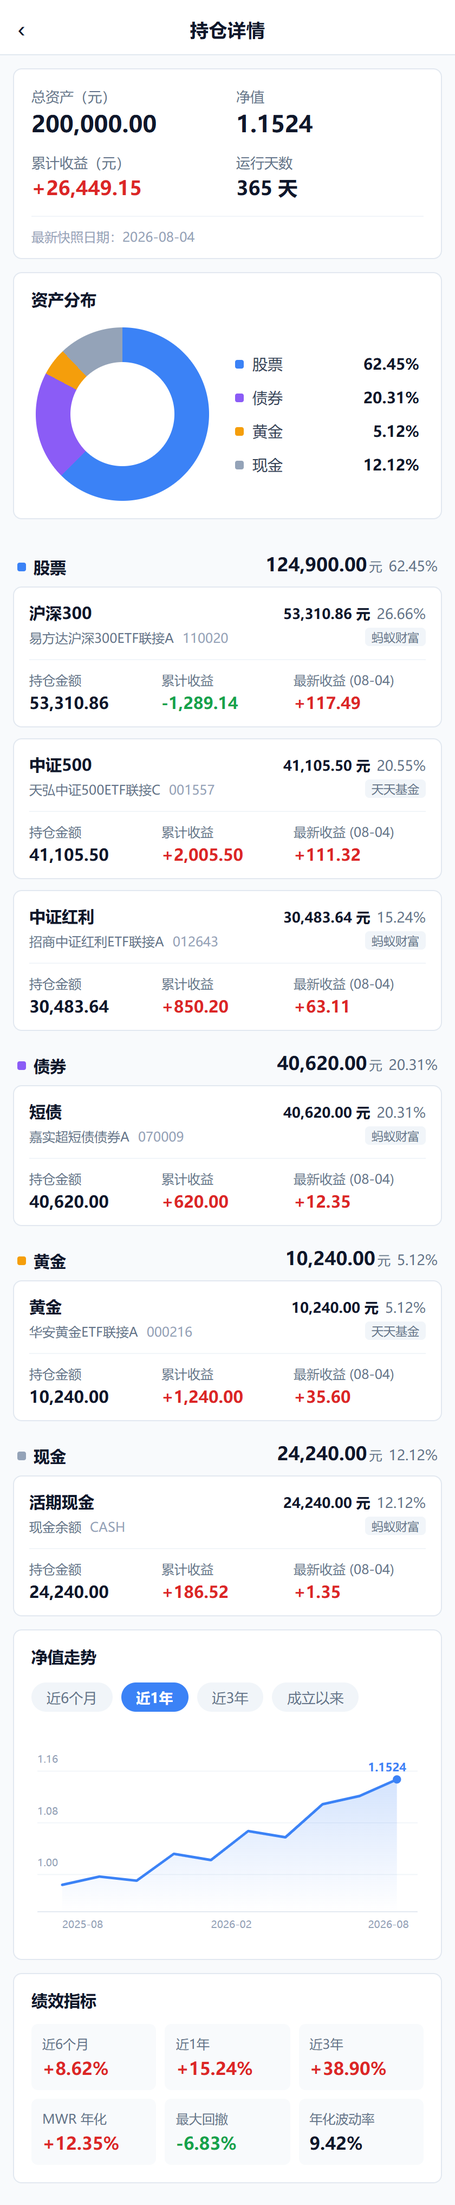
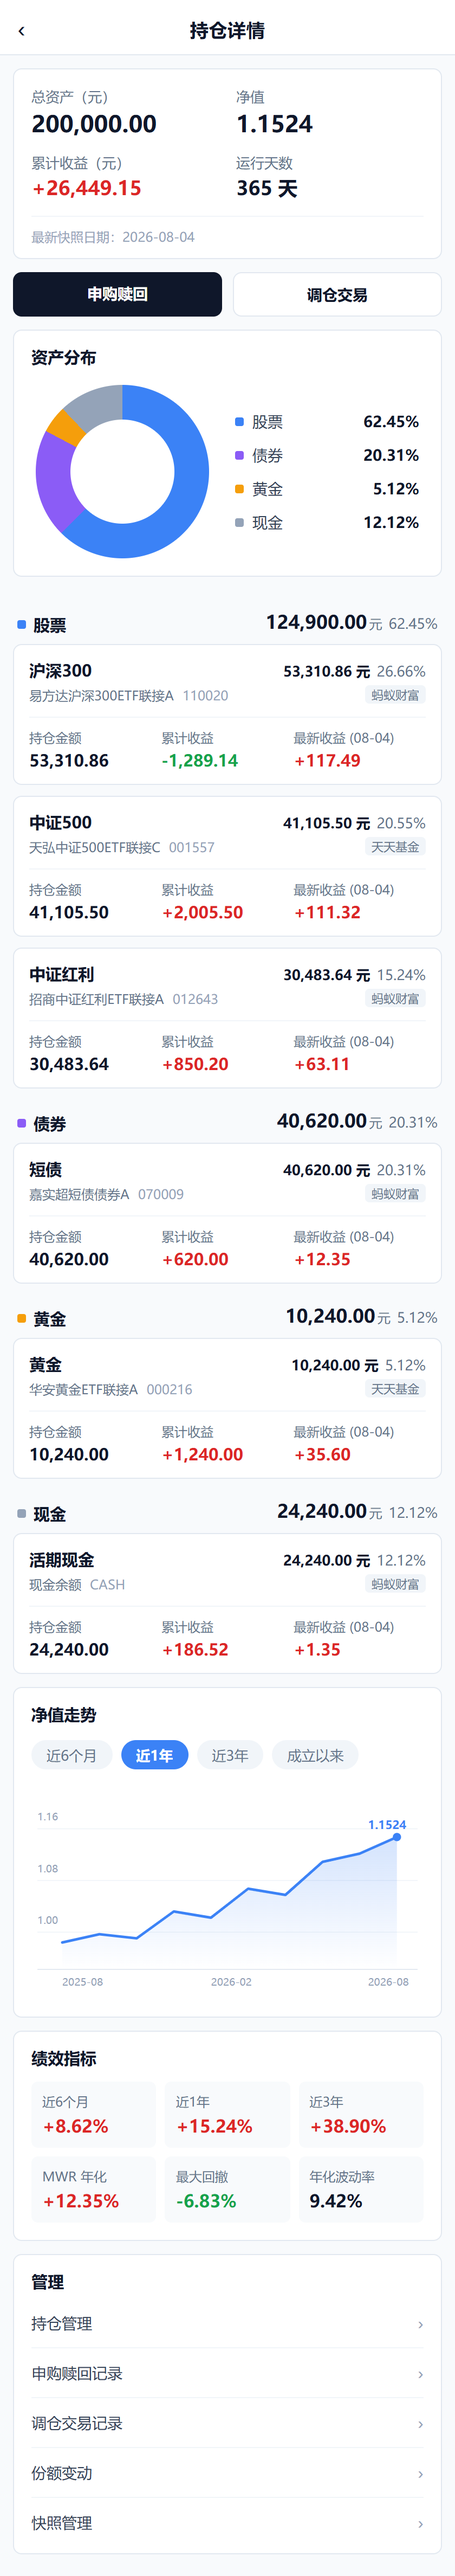
docs: 持仓详情双端预览稿（issue #99）
- 新增 PC 端预览稿：页头操作区（申赎/调仓/份额变动/快照管理）、
  四指标 4 列、环形图+2x2 图例、持仓明细区头含管理持仓入口、
  净值走势标题与区间 chips 同行、绩效 6 列一行
- 移动端：高频按钮（申赎/调仓）移至资产概览卡下方 2 列网格；
  页尾新增管理入口列表（持仓管理/记录/份额变动/快照管理）
- 双端截图同步生成

diff --git a/.qoder/preview/portfolio-holdings-preview-pc.html b/.qoder/preview/portfolio-holdings-preview-pc.html
@@ -1,0 +1,294 @@
+<!DOCTYPE html>
+<html lang="zh-CN">
+<head>
+<meta charset="UTF-8">
+<meta name="viewport" content="width=device-width, initial-scale=1.0">
+<title>持仓详情预览 · PC</title>
+<style>
+  /* ===== 设计基元：与 frontend/globals.css（shadcn 主题）对齐，与移动端预览稿同源 =====
+     文字主色 slate-900 / 次要 slate-500 / 弱提示 slate-400；边框 slate-200；圆角 8px
+     涨 red-600 / 跌 green-600；净值曲线 blue-500
+     分类色板：股票 blue-500 / 债券 violet-500 / 黄金 amber-500 / 现金 slate-400
+  */
+  * { margin: 0; padding: 0; box-sizing: border-box; }
+  body {
+    font-family: -apple-system, BlinkMacSystemFont, "PingFang SC", "Microsoft YaHei", "Noto Sans SC", sans-serif;
+    background: #f8fafc; color: #0f172a;
+    -webkit-font-smoothing: antialiased;
+  }
+  .container { max-width: 1080px; margin: 0 auto; padding: 0 24px 32px; }
+  .panel { background: #ffffff; border: 1px solid #e2e8f0; border-radius: 8px; }
+  .section { margin-top: 16px; }
+  .section-title { font-size: 15px; font-weight: 600; padding: 16px 20px 6px; }
+
+  /* 页头：标题左 + 操作按钮右（高频 primary、低频 outline） */
+  .pagehead {
+    display: flex; justify-content: space-between; align-items: center;
+    padding: 18px 24px; background: #ffffff; border-bottom: 1px solid #e2e8f0;
+  }
+  .pagehead .left { display: flex; align-items: center; gap: 12px; }
+  .pagehead .back { font-size: 20px; color: #0f172a; }
+  .pagehead h1 { font-size: 20px; font-weight: 700; }
+  .pagehead .code { font-size: 13px; color: #64748b; margin-top: 2px; }
+  .actions { display: flex; gap: 8px; }
+  .btn { font-size: 13px; font-weight: 600; border-radius: 8px; padding: 8px 16px; }
+  .btn-primary { background: #0f172a; color: #ffffff; }
+  .btn-outline { background: #ffffff; border: 1px solid #e2e8f0; color: #0f172a; }
+  .btn-sm { font-size: 12px; padding: 5px 12px; }
+
+  /* 顶部四项指标：4 列独立卡片 */
+  .stat-row { display: grid; grid-template-columns: repeat(4, 1fr); gap: 12px; margin-top: 16px; }
+  .stat-card { padding: 16px 18px; }
+  .stat-card .label { font-size: 13px; color: #64748b; }
+  .stat-card .value { font-size: 24px; font-weight: 700; margin-top: 6px; font-variant-numeric: tabular-nums; }
+  .stat-card .value.small { font-size: 20px; }
+  .snap-date { font-size: 12px; color: #94a3b8; margin-top: 8px; }
+
+  /* 资产分布：环形图 + 图例 */
+  .allocation { display: flex; align-items: center; gap: 40px; padding: 12px 24px 20px; }
+  .donut {
+    width: 180px; height: 180px; border-radius: 50%;
+    background: conic-gradient(
+      #3b82f6 0deg 224.82deg,
+      #8b5cf6 224.82deg 297.94deg,
+      #f59e0b 297.94deg 316.37deg,
+      #94a3b8 316.37deg 360deg
+    );
+    position: relative; flex-shrink: 0;
+  }
+  .donut::after { content: ""; position: absolute; inset: 36px; border-radius: 50%; background: #fff; }
+  .legend { flex: 1; display: grid; grid-template-columns: 1fr 1fr; gap: 14px 24px; }
+  .legend .item { display: flex; align-items: center; font-size: 14px; color: #334155; }
+  .legend .dot { width: 8px; height: 8px; border-radius: 2px; margin-right: 8px; flex-shrink: 0; }
+  .legend .pct { margin-left: auto; font-weight: 600; color: #0f172a; font-variant-numeric: tabular-nums; }
+
+  /* 持仓明细区头：标题 + 管理持仓入口 */
+  .holdings-head { display: flex; justify-content: space-between; align-items: center; margin: 20px 0 4px; }
+  .holdings-head .t { font-size: 15px; font-weight: 600; }
+
+  /* 大类分区头：色点 + 分类名（左），合计金额 + 占比（右） */
+  .cat-head { padding: 16px 4px 8px; display: flex; justify-content: space-between; align-items: baseline; }
+  .cat-name { font-size: 15px; font-weight: 600; display: flex; align-items: center; }
+  .cat-name .dot { width: 8px; height: 8px; border-radius: 2px; margin-right: 7px; }
+  .cat-total { font-size: 17px; font-weight: 700; font-variant-numeric: tabular-nums; }
+  .cat-total .unit { font-size: 12px; font-weight: 400; color: #64748b; margin-left: 2px; }
+  .cat-total .cat-pct { font-size: 13px; font-weight: 400; color: #64748b; margin-left: 6px; }
+
+  /* 持仓卡片：单列，与移动端同构 */
+  .cards { display: flex; flex-direction: column; gap: 10px; }
+  .card { background: #ffffff; border: 1px solid #e2e8f0; border-radius: 8px; padding: 14px 18px 12px; }
+  .card .row1 { display: flex; justify-content: space-between; align-items: baseline; }
+  .card .pname { font-size: 15px; font-weight: 600; }
+  .card .total-amt { font-size: 13px; color: #0f172a; font-weight: 600; font-variant-numeric: tabular-nums; }
+  .card .total-amt .share-pct { color: #64748b; font-weight: 400; margin-left: 6px; }
+  .card .row2 { display: flex; gap: 8px; align-items: center; margin-top: 4px; }
+  .card .fullname { font-size: 12px; color: #64748b; }
+  .card .code { font-size: 12px; color: #94a3b8; font-variant-numeric: tabular-nums; }
+  .card .platform {
+    font-size: 11px; color: #64748b; background: #f1f5f9; border-radius: 4px;
+    padding: 1px 6px; margin-left: auto; flex-shrink: 0;
+  }
+  .card .metrics { display: flex; margin-top: 12px; padding-top: 10px; border-top: 1px solid #f1f5f9; }
+  .card .metric { flex: 1; }
+  .card .m-label { font-size: 12px; color: #64748b; }
+  .card .m-value { font-size: 16px; font-weight: 700; margin-top: 3px; font-variant-numeric: tabular-nums; }
+
+  .up { color: #dc2626; }
+  .down { color: #16a34a; }
+  .neutral { color: #0f172a; }
+
+  /* 净值曲线区 */
+  .chart-head { display: flex; justify-content: space-between; align-items: center; padding: 16px 20px 0; }
+  .range-chips { display: flex; gap: 8px; }
+  .chip { font-size: 13px; color: #64748b; background: #f1f5f9; border-radius: 999px; padding: 5px 14px; }
+  .chip.active { color: #fff; background: #3b82f6; font-weight: 600; }
+  .chart-box { padding: 8px 16px 16px; }
+
+  /* 绩效指标：6 列一行 */
+  .perf-grid { display: grid; grid-template-columns: repeat(6, 1fr); gap: 10px; padding: 8px 20px 20px; }
+  .perf-cell { background: #f8fafc; border-radius: 6px; padding: 12px; }
+  .perf-cell .p-label { font-size: 12px; color: #64748b; }
+  .perf-cell .p-value { font-size: 17px; font-weight: 700; margin-top: 4px; font-variant-numeric: tabular-nums; }
+</style>
+</head>
+<body>
+<div class="pagehead">
+  <div class="left">
+    <span class="back">‹</span>
+    <div>
+      <h1>长赢计划</h1>
+      <div class="code">PORT004</div>
+    </div>
+  </div>
+  <div class="actions">
+    <span class="btn btn-primary">申购赎回</span>
+    <span class="btn btn-outline">调仓交易</span>
+    <span class="btn btn-outline">份额变动</span>
+    <span class="btn btn-outline">快照管理</span>
+  </div>
+</div>
+
+<div class="container">
+  <!-- 顶部四项指标（4 列卡片）+ 最新快照日期 -->
+  <div class="stat-row">
+    <div class="panel stat-card"><div class="label">总资产（元）</div><div class="value">200,000.00</div></div>
+    <div class="panel stat-card"><div class="label">净值</div><div class="value">1.1524</div></div>
+    <div class="panel stat-card"><div class="label">累计收益（元）</div><div class="value small up">+26,449.15</div></div>
+    <div class="panel stat-card"><div class="label">运行天数</div><div class="value small">365 天</div></div>
+  </div>
+  <div class="snap-date">最新快照日期：2026-08-04</div>
+
+  <!-- 资产分布 -->
+  <div class="section panel">
+    <div class="section-title">资产分布</div>
+    <div class="allocation">
+      <div class="donut"></div>
+      <div class="legend">
+        <div class="item"><span class="dot" style="background:#3b82f6"></span>股票<span class="pct">62.45%</span></div>
+        <div class="item"><span class="dot" style="background:#8b5cf6"></span>债券<span class="pct">20.31%</span></div>
+        <div class="item"><span class="dot" style="background:#f59e0b"></span>黄金<span class="pct">5.12%</span></div>
+        <div class="item"><span class="dot" style="background:#94a3b8"></span>现金<span class="pct">12.12%</span></div>
+      </div>
+    </div>
+  </div>
+
+  <!-- 持仓明细：区头含「管理持仓」入口 -->
+  <div class="holdings-head">
+    <span class="t">持仓明细</span>
+    <span class="btn btn-outline btn-sm">管理持仓</span>
+  </div>
+
+  <div class="cat-head">
+    <div class="cat-name"><span class="dot" style="background:#3b82f6"></span>股票</div>
+    <div class="cat-total">124,900.00<span class="unit">元</span><span class="cat-pct">62.45%</span></div>
+  </div>
+  <div class="cards">
+    <div class="card">
+      <div class="row1"><span class="pname">沪深300</span><span class="total-amt">53,310.86 元<span class="share-pct">26.66%</span></span></div>
+      <div class="row2"><span class="fullname">易方达沪深300ETF联接A</span><span class="code">110020</span><span class="platform">蚂蚁财富</span></div>
+      <div class="metrics">
+        <div class="metric"><div class="m-label">持仓金额</div><div class="m-value neutral">53,310.86</div></div>
+        <div class="metric"><div class="m-label">累计收益</div><div class="m-value down">-1,289.14</div></div>
+        <div class="metric"><div class="m-label">最新收益 (08-04)</div><div class="m-value up">+117.49</div></div>
+      </div>
+    </div>
+    <div class="card">
+      <div class="row1"><span class="pname">中证500</span><span class="total-amt">41,105.50 元<span class="share-pct">20.55%</span></span></div>
+      <div class="row2"><span class="fullname">天弘中证500ETF联接C</span><span class="code">001557</span><span class="platform">天天基金</span></div>
+      <div class="metrics">
+        <div class="metric"><div class="m-label">持仓金额</div><div class="m-value neutral">41,105.50</div></div>
+        <div class="metric"><div class="m-label">累计收益</div><div class="m-value up">+2,005.50</div></div>
+        <div class="metric"><div class="m-label">最新收益 (08-04)</div><div class="m-value up">+111.32</div></div>
+      </div>
+    </div>
+    <div class="card">
+      <div class="row1"><span class="pname">中证红利</span><span class="total-amt">30,483.64 元<span class="share-pct">15.24%</span></span></div>
+      <div class="row2"><span class="fullname">招商中证红利ETF联接A</span><span class="code">012643</span><span class="platform">蚂蚁财富</span></div>
+      <div class="metrics">
+        <div class="metric"><div class="m-label">持仓金额</div><div class="m-value neutral">30,483.64</div></div>
+        <div class="metric"><div class="m-label">累计收益</div><div class="m-value up">+850.20</div></div>
+        <div class="metric"><div class="m-label">最新收益 (08-04)</div><div class="m-value up">+63.11</div></div>
+      </div>
+    </div>
+  </div>
+
+  <div class="cat-head">
+    <div class="cat-name"><span class="dot" style="background:#8b5cf6"></span>债券</div>
+    <div class="cat-total">40,620.00<span class="unit">元</span><span class="cat-pct">20.31%</span></div>
+  </div>
+  <div class="cards">
+    <div class="card">
+      <div class="row1"><span class="pname">短债</span><span class="total-amt">40,620.00 元<span class="share-pct">20.31%</span></span></div>
+      <div class="row2"><span class="fullname">嘉实超短债债券A</span><span class="code">070009</span><span class="platform">蚂蚁财富</span></div>
+      <div class="metrics">
+        <div class="metric"><div class="m-label">持仓金额</div><div class="m-value neutral">40,620.00</div></div>
+        <div class="metric"><div class="m-label">累计收益</div><div class="m-value up">+620.00</div></div>
+        <div class="metric"><div class="m-label">最新收益 (08-04)</div><div class="m-value up">+12.35</div></div>
+      </div>
+    </div>
+  </div>
+
+  <div class="cat-head">
+    <div class="cat-name"><span class="dot" style="background:#f59e0b"></span>黄金</div>
+    <div class="cat-total">10,240.00<span class="unit">元</span><span class="cat-pct">5.12%</span></div>
+  </div>
+  <div class="cards">
+    <div class="card">
+      <div class="row1"><span class="pname">黄金</span><span class="total-amt">10,240.00 元<span class="share-pct">5.12%</span></span></div>
+      <div class="row2"><span class="fullname">华安黄金ETF联接A</span><span class="code">000216</span><span class="platform">天天基金</span></div>
+      <div class="metrics">
+        <div class="metric"><div class="m-label">持仓金额</div><div class="m-value neutral">10,240.00</div></div>
+        <div class="metric"><div class="m-label">累计收益</div><div class="m-value up">+1,240.00</div></div>
+        <div class="metric"><div class="m-label">最新收益 (08-04)</div><div class="m-value up">+35.60</div></div>
+      </div>
+    </div>
+  </div>
+
+  <div class="cat-head">
+    <div class="cat-name"><span class="dot" style="background:#94a3b8"></span>现金</div>
+    <div class="cat-total">24,240.00<span class="unit">元</span><span class="cat-pct">12.12%</span></div>
+  </div>
+  <div class="cards">
+    <div class="card">
+      <div class="row1"><span class="pname">活期现金</span><span class="total-amt">24,240.00 元<span class="share-pct">12.12%</span></span></div>
+      <div class="row2"><span class="fullname">现金余额</span><span class="code">CASH</span><span class="platform">蚂蚁财富</span></div>
+      <div class="metrics">
+        <div class="metric"><div class="m-label">持仓金额</div><div class="m-value neutral">24,240.00</div></div>
+        <div class="metric"><div class="m-label">累计收益</div><div class="m-value up">+186.52</div></div>
+        <div class="metric"><div class="m-label">最新收益 (08-04)</div><div class="m-value up">+1.35</div></div>
+      </div>
+    </div>
+  </div>
+
+  <!-- 净值走势：标题 + 区间筛选同行 -->
+  <div class="section panel">
+    <div class="chart-head">
+      <span class="section-title" style="padding:0">净值走势</span>
+      <div class="range-chips">
+        <span class="chip">近6个月</span>
+        <span class="chip active">近1年</span>
+        <span class="chip">近3年</span>
+        <span class="chip">成立以来</span>
+      </div>
+    </div>
+    <div class="chart-box">
+      <svg viewBox="0 0 1000 280" width="100%" height="280">
+        <line x1="20" y1="50" x2="980" y2="50" stroke="#f1f5f9" stroke-width="1"/>
+        <line x1="20" y1="110" x2="980" y2="110" stroke="#f1f5f9" stroke-width="1"/>
+        <line x1="20" y1="170" x2="980" y2="170" stroke="#f1f5f9" stroke-width="1"/>
+        <line x1="20" y1="230" x2="980" y2="230" stroke="#e2e8f0" stroke-width="1"/>
+        <text x="20" y="42" font-size="11" fill="#94a3b8">1.16</text>
+        <text x="20" y="102" font-size="11" fill="#94a3b8">1.08</text>
+        <text x="20" y="162" font-size="11" fill="#94a3b8">1.00</text>
+        <defs>
+          <linearGradient id="navfill" x1="0" y1="0" x2="0" y2="1">
+            <stop offset="0%" stop-color="#3b82f6" stop-opacity="0.22"/>
+            <stop offset="100%" stop-color="#3b82f6" stop-opacity="0"/>
+          </linearGradient>
+        </defs>
+        <path d="M60,200 L160,188 L260,196 L360,158 L460,170 L560,132 L660,142 L760,102 L860,88 L960,62 L960,230 L60,230 Z" fill="url(#navfill)"/>
+        <polyline points="60,200 160,188 260,196 360,158 460,170 560,132 660,142 760,102 860,88 960,62" fill="none" stroke="#3b82f6" stroke-width="2.5" stroke-linecap="round" stroke-linejoin="round"/>
+        <circle cx="960" cy="62" r="4" fill="#3b82f6"/>
+        <text x="60" y="258" font-size="11" fill="#94a3b8">2025-08</text>
+        <text x="480" y="258" font-size="11" fill="#94a3b8">2026-02</text>
+        <text x="920" y="258" font-size="11" fill="#94a3b8">2026-08</text>
+        <text x="890" y="56" font-size="12" fill="#3b82f6" font-weight="bold">1.1524</text>
+      </svg>
+    </div>
+  </div>
+
+  <!-- 绩效指标：6 列一行 -->
+  <div class="section panel">
+    <div class="section-title">绩效指标</div>
+    <div class="perf-grid">
+      <div class="perf-cell"><div class="p-label">近6个月</div><div class="p-value up">+8.62%</div></div>
+      <div class="perf-cell"><div class="p-label">近1年</div><div class="p-value up">+15.24%</div></div>
+      <div class="perf-cell"><div class="p-label">近3年</div><div class="p-value up">+38.90%</div></div>
+      <div class="perf-cell"><div class="p-label">MWR 年化</div><div class="p-value up">+12.35%</div></div>
+      <div class="perf-cell"><div class="p-label">最大回撤</div><div class="p-value down">-6.83%</div></div>
+      <div class="perf-cell"><div class="p-label">年化波动率</div><div class="p-value neutral">9.42%</div></div>
+    </div>
+  </div>
+</div>
+</body>
+</html>

diff --git a/.qoder/preview/portfolio-holdings-preview.html b/.qoder/preview/portfolio-holdings-preview.html
@@ -106,6 +106,18 @@
   .perf-cell { background: #f8fafc; border-radius: 6px; padding: 10px; }
   .perf-cell .p-label { font-size: 12px; color: #64748b; }
   .perf-cell .p-value { font-size: 16px; font-weight: 700; margin-top: 4px; font-variant-numeric: tabular-nums; }
+
+  /* 高频操作按钮（标题下 2 列网格）：申购赎回 primary / 调仓 outline */
+  .action-grid { display: grid; grid-template-columns: 1fr 1fr; gap: 10px; margin: 12px 12px 0; }
+  .btn { font-size: 14px; font-weight: 600; border-radius: 8px; padding: 10px 0; text-align: center; }
+  .btn-primary { background: #0f172a; color: #ffffff; }
+  .btn-outline { background: #ffffff; border: 1px solid #e2e8f0; color: #0f172a; }
+
+  /* 管理入口列表（低频：持仓管理/记录/份额变动/快照管理，置于页尾） */
+  .manage-list { padding: 2px 16px 6px; }
+  .manage-item { display: flex; justify-content: space-between; align-items: center; padding: 12px 0; font-size: 14px; color: #334155; border-bottom: 1px solid #f1f5f9; }
+  .manage-item:last-child { border-bottom: none; }
+  .manage-item .chev { color: #94a3b8; font-size: 16px; }
 </style>
 </head>
 <body>
@@ -126,6 +138,12 @@
       </div>
       <div class="snap-date">最新快照日期：2026-08-04</div>
     </div>
+  </div>
+
+  <!-- 高频操作：申购赎回 / 调仓交易（admin；资产概览卡下方；低频管理入口见页尾） -->
+  <div class="action-grid">
+    <div class="btn btn-primary">申购赎回</div>
+    <div class="btn btn-outline">调仓交易</div>
   </div>
 
   <!-- 资产分布：按大类环形图 + 图例 -->
@@ -277,6 +295,20 @@
         <div class="perf-cell"><div class="p-label">MWR 年化</div><div class="p-value up">+12.35%</div></div>
         <div class="perf-cell"><div class="p-label">最大回撤</div><div class="p-value down">-6.83%</div></div>
         <div class="perf-cell"><div class="p-label">年化波动率</div><div class="p-value neutral">9.42%</div></div>
+      </div>
+    </div>
+  </div>
+
+  <!-- 管理入口（低频，页尾）：持仓管理 / 记录 / 份额变动 / 快照管理 -->
+  <div class="section">
+    <div class="panel">
+      <div class="section-title">管理</div>
+      <div class="manage-list">
+        <div class="manage-item">持仓管理<span class="chev">›</span></div>
+        <div class="manage-item">申购赎回记录<span class="chev">›</span></div>
+        <div class="manage-item">调仓交易记录<span class="chev">›</span></div>
+        <div class="manage-item">份额变动<span class="chev">›</span></div>
+        <div class="manage-item">快照管理<span class="chev">›</span></div>
       </div>
     </div>
   </div>
